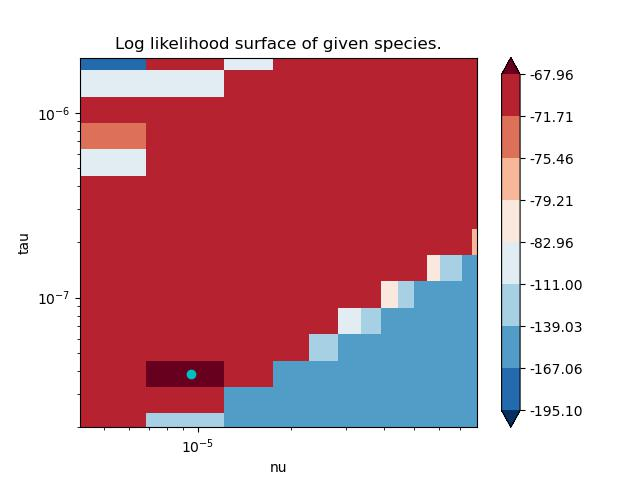
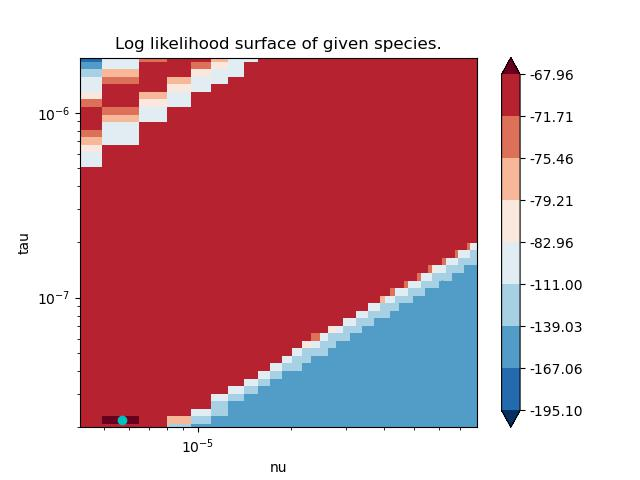
likelihood plots.

Changed region(s): [[0.1562, 0.4688, 0.75, 0.9062], [0.125, 0.125, 0.4375, 0.375]]

diff --git a/Scripts/plot_likelihood.py b/Scripts/plot_likelihood.py
@@ -383,13 +383,13 @@ class PlotLikelihood():
         # Output files: logfile
         # Remove output files if they already exist
         underscore = '' if args['outprefix'][-1] == '/' else '_'
-        # output_plot = \
-        #     '{0}{1}likelihood_surface.jpg'.format(
-        #         args['outprefix'], underscore)
-        logfile = '{0}{1}log.log'.format(args['outprefix'], underscore)
         output_plot = \
-            '{0}{1}full_likelihood_surface.jpg'.format(
+            '{0}{1}likelihood_surface.jpg'.format(
                 args['outprefix'], underscore)
+        logfile = '{0}{1}log.log'.format(args['outprefix'], underscore)
+        # output_plot = \
+        #     '{0}{1}full_likelihood_surface.jpg'.format(
+        #         args['outprefix'], underscore)
         to_remove = [logfile, output_plot]
         # for f in to_remove:
         #     if os.path.isfile(f):
@@ -443,10 +443,10 @@ class PlotLikelihood():
                             'demographic model.')
             with open(file, 'w') as f:
                 min_nu = 0.1 * nu_prime
-                # max_nu = 1.9 * nu_prime
+                max_nu = 1.9 * nu_prime
                 min_tau = 0.1 * tau_prime
                 max_tau = 10 * tau_prime
-                max_nu = 2.0
+                # max_nu = 2.0
                 nx = 50
                 ny = 50
                 x_space = numpy.linspace(min_nu, max_nu, nx)
